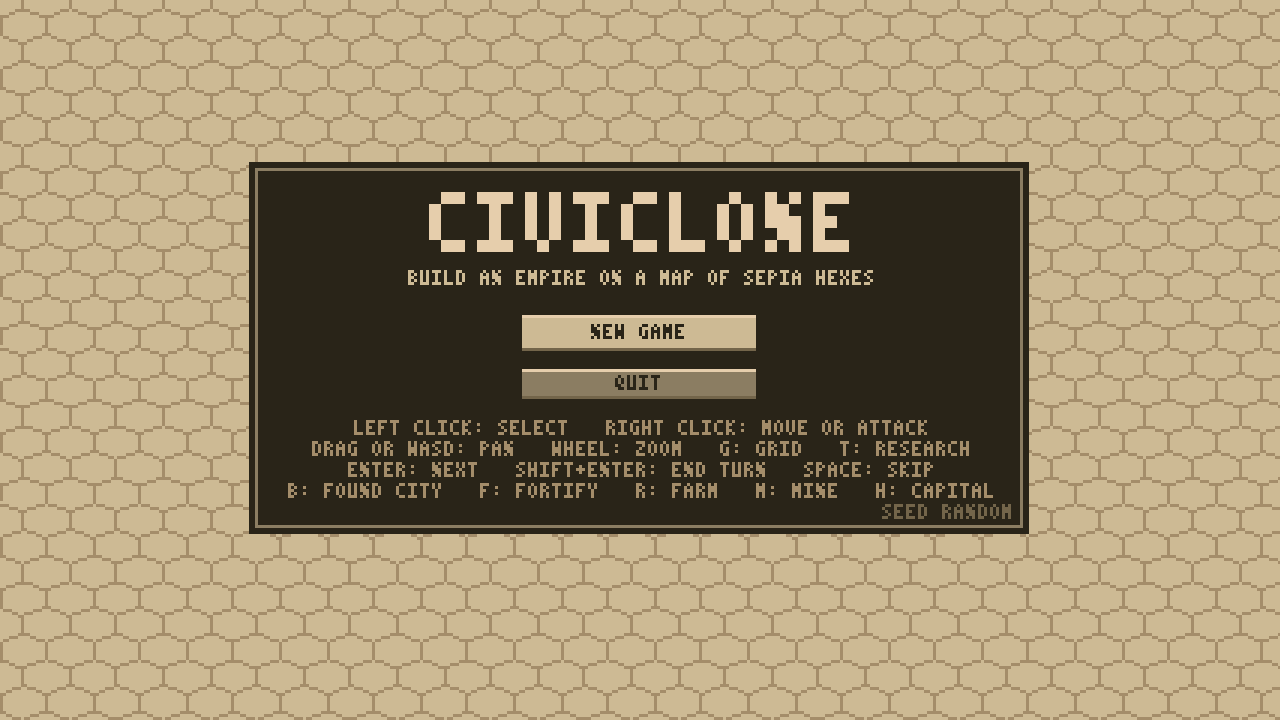
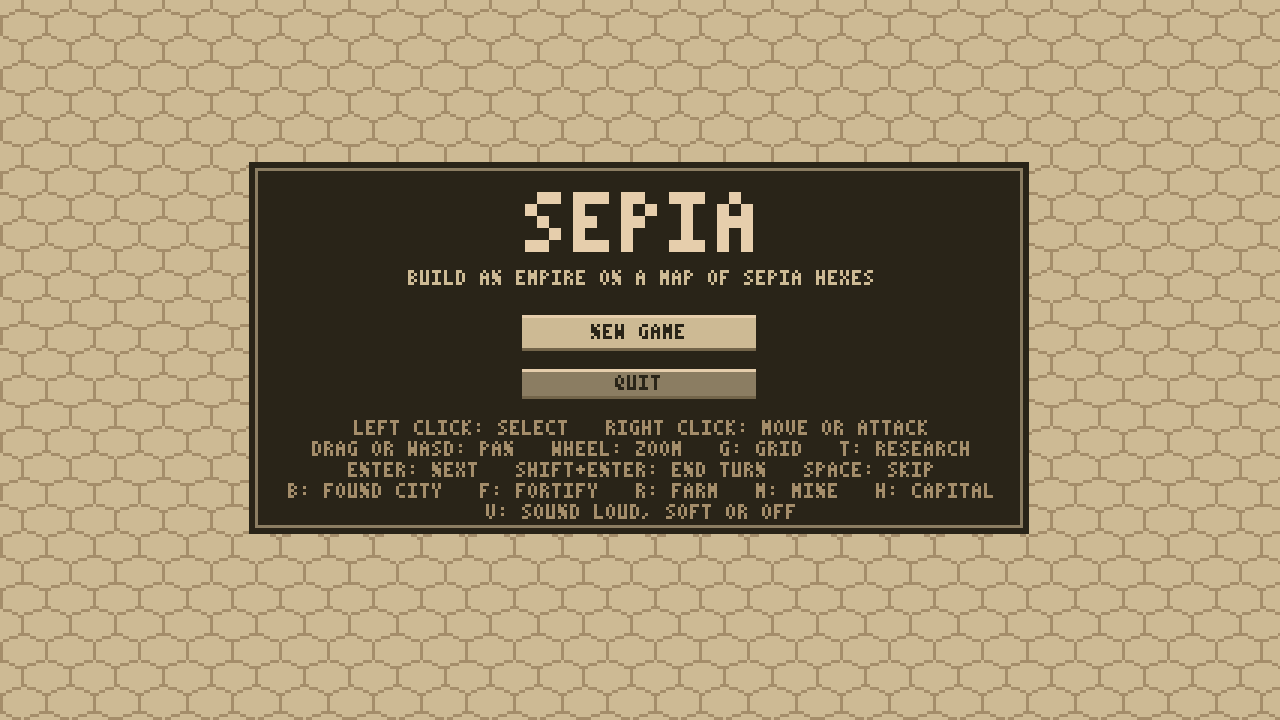
Call the game Sepia: the window, the title screen and the docs
Saves keep the civiclone identity, so they stay where they are.

Claude-Session: https://claude.ai/code/session_01WmGK6pY3aGgz9pdGj9Tt5E

diff --git a/README.md b/README.md
@@ -1,4 +1,4 @@
-# Civiclone
+# Sepia
 
 A small Civilization VI–style strategy game for [LÖVE](https://love2d.org) 11,
 drawn in eight shades of sepia and nothing else:
@@ -27,7 +27,7 @@ LÖVE's save folder, and quits.
 
 ## Builds
 
-Every push builds the game as **Sepia**, with a city among a few hexes of the
+Every push builds the game, with a city among a few hexes of the
 map as its icon (`assets/icon/icon.png`): an Android APK
 (`.github/workflows/android.yml`, on LÖVE 12 for Android) and Windows, macOS
 and Linux apps plus a bare `.love` (`.github/workflows/desktop.yml`, on LÖVE

diff --git a/GUIDE.md b/GUIDE.md
@@ -1,4 +1,4 @@
-# Civiclone: the guide
+# Sepia: the guide
 
 Everything the game does, and every number behind it, as built. The rules
 live in `src/game.lua` and `src/ai.lua`. Every number is in `src/defs.lua`, so
